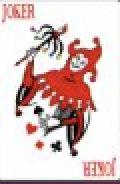
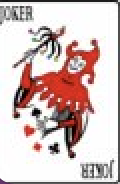
commit

diff --git a/src/main/java/application/view/PlayView.java b/src/main/java/application/view/PlayView.java
@@ -55,11 +55,11 @@ public class PlayView extends JPanel{
 		this.add(leaveButton, BorderLayout.NORTH);
 		
 		//bottom
-		PlayerCards bottom = new PlayerCards();
-		GridLayout gridLayout = new GridLayout(1,13,10,10);
-		bottom.setLayout(gridLayout);
-		bottom.setBackground(new Color(185, 251, 192));
-		this.add(bottom, BorderLayout.SOUTH);
+//		PlayerCards bottom = new PlayerCards();
+//		GridLayout gridLayout = new GridLayout(1,13,10,10);
+//		bottom.setLayout(gridLayout);
+//		bottom.setBackground(new Color(185, 251, 192));
+		this.add(PlayerCards.getInstance(), BorderLayout.SOUTH);
 		
 		
 		ImageIcon image1 = new ImageIcon();
@@ -91,8 +91,8 @@ public class PlayView extends JPanel{
 					// TODO Auto-generated catch block
 					e.printStackTrace();
 				}
-				CardPanel p1 = new CardPanel(image, bottom);
-				bottom.add(p1);
+				CardPanel p1 = new CardPanel(image, PlayerCards.getInstance());
+				PlayerCards.getInstance().add(p1);
 		}
 		 
 		
@@ -110,7 +110,7 @@ public class PlayView extends JPanel{
 		
 		//TEST
 		for(int i = 0; i < 20; ++i) {
-			GameSpot gs = new GameSpot(bottom);
+			GameSpot gs = new GameSpot(PlayerCards.getInstance());
 //			CardPanel c1 =new CardPanel(image1);
 //			CardPanel c2 = new CardPanel(image1);
 //			CardPanel c3 =new CardPanel(image1);
@@ -145,12 +145,24 @@ public class PlayView extends JPanel{
 		}
 		//END TEST
 		
-		JPanel deckAndWell = new JPanel();
-		deckAndWell.add(new CardPanel(image1));
-		deckAndWell.add(new CardPanel(image1));
-		deckAndWell.setMaximumSize(new Dimension(110,120));
-		deckAndWell.setBackground(new Color(185, 251, 192));
-		deckAndWell.setLayout(new FlowLayout());
+//		JPanel deckAndWell = new JPanel();
+//		deckAndWell.add(new CardPanel(image1));
+//		deckAndWell.add(new CardPanel(image1));
+//				
+//		deckAndWell.setMaximumSize(new Dimension(110,120));
+//		deckAndWell.setBackground(new Color(185, 251, 192));
+//		deckAndWell.setLayout(new FlowLayout());
+		ImageIcon backImage = new ImageIcon();
+		ImageIcon firstImage = new ImageIcon();
+		try {
+			backImage.setImage(ImageIO.read(getClass().getResource("../resources/" + '9' + '9' + ".png")));
+			firstImage.setImage(ImageIO.read(getClass().getResource("../resources/" + '5' + '1' + ".png")));
+		} catch (IOException e) {
+			// TODO Auto-generated catch block
+			e.printStackTrace();
+		}
+		
+		DeckAndWell deckAndWell = new DeckAndWell(backImage, firstImage);
 		
 		center.add(deckAndWell, BorderLayout.NORTH);
 		center.add(gameSpots, BorderLayout.CENTER); 

diff --git a/src/main/java/application/view/DeckPanel.java b/src/main/java/application/view/DeckPanel.java
@@ -1,0 +1,41 @@
+package application.view;
+
+import java.awt.event.MouseEvent;
+import java.io.IOException;
+
+import javax.imageio.ImageIO;
+import javax.swing.ImageIcon;
+
+import application.model.Card;
+import application.model.Game;
+
+public class DeckPanel extends CardPanel{
+
+	private static final long serialVersionUID = 3154124699346921639L;
+	public DeckPanel(ImageIcon image) {
+		super(image);
+		// TODO Auto-generated constructor stub
+	}
+	
+	public DeckPanel(ImageIcon image, PlayerCards playerCards) {
+		super(image, playerCards);
+		// TODO Auto-generated constructor stub
+	}
+
+	@Override
+	public void mouseClicked(MouseEvent e) {
+		Card c = Game.getInstance().getDeck().get(0);
+		Game.getInstance().getDeck().remove(0);
+		System.out.print(c.getSuite() + " " + c.getNumber() + "\n");
+		ImageIcon image = new ImageIcon();
+		try {
+			image.setImage(ImageIO.read(getClass().getResource("../resources/" + c.getSuite() + c.getNumber() + ".png")));
+		} catch (IOException e1) {
+			// TODO Auto-generated catch block
+			e1.printStackTrace();
+		}
+		CardPanel card = new CardPanel(image, PlayerCards.getInstance());
+		PlayerCards.getInstance().add(card);
+		PlayerCards.getInstance().revalidate();
+	}
+}

diff --git a/src/main/java/application/view/PlayerCards.java b/src/main/java/application/view/PlayerCards.java
@@ -1,5 +1,7 @@
 package application.view;
 
+import java.awt.Color;
+import java.awt.GridLayout;
 import java.util.ArrayList;
 
 import javax.swing.JPanel;
@@ -10,7 +12,19 @@ public class PlayerCards extends JPanel{
 	
 	public ArrayList<CardPanel> selectedCards = new ArrayList<CardPanel>();
 	
-	public PlayerCards() {}
+	private static PlayerCards instance = null;
+	
+	private PlayerCards() {
+		GridLayout gridLayout = new GridLayout(1,13,10,10);
+		this.setLayout(gridLayout);
+		this.setBackground(new Color(185, 251, 192));
+	}
+	
+	public static PlayerCards getInstance() {
+		if(instance == null)
+			instance = new PlayerCards();
+		return instance;
+	}
 	
 	
 	public void addSelectedCard(CardPanel p) {
@@ -29,10 +43,10 @@ public class PlayerCards extends JPanel{
 	}
 	
 	public void removeCard(CardPanel p) {
-		for (CardPanel cardPanel : selectedCards) {
-			System.out.println("Card");
-		}
-		System.out.println("\n");
+//		for (CardPanel cardPanel : selectedCards) {
+//			System.out.println("Card");
+//		}
+//		System.out.println("\n");
 		this.remove(p);
 		selectedCards.remove(p);
 	}

diff --git a/src/main/java/application/view/WellPanel.java b/src/main/java/application/view/WellPanel.java
@@ -1,0 +1,40 @@
+package application.view;
+
+import java.awt.event.MouseEvent;
+
+import javax.swing.ImageIcon;
+
+import application.model.Card;
+import application.model.Game;
+
+public class WellPanel extends CardPanel{
+
+	private static final long serialVersionUID = 2786141514094370526L;
+
+	public WellPanel(ImageIcon image) {
+		super(image);
+		// TODO Auto-generated constructor stub
+	}
+	
+	public WellPanel(ImageIcon image, PlayerCards playCards) {
+		super(image, playCards);
+		// TODO Auto-generated constructor stub
+	}
+
+	@Override
+	public void mouseClicked(MouseEvent e) {
+		if(PlayerCards.getInstance().selectedCards.size() == 1) {
+			//Game.getInstance().getWell().add(new Card());
+			CardPanel c = PlayerCards.getInstance().selectedCards.remove(0);
+			PlayerCards.getInstance().remove(c);
+			
+			super.setImage(c.getImage());
+			
+			PlayerCards.getInstance().revalidate();
+		}
+		else if(PlayerCards.getInstance().selectedCards.size() == 0) {
+			
+		}
+	}
+	
+}

diff --git a/src/main/java/application/view/CardPanel.java b/src/main/java/application/view/CardPanel.java
@@ -32,7 +32,7 @@ public class CardPanel extends JPanel implements MouseInputListener{
 	
 	public CardPanel(ImageIcon image, PlayerCards owner) {
 		setBackground(Color.WHITE);
-		this.setLayout(new BorderLayout());
+		//this.setLayout(new BorderLayout());
 		this.image = image;
 		this.label = new JLabel(this.image);
 		this.owner = owner;
@@ -41,6 +41,20 @@ public class CardPanel extends JPanel implements MouseInputListener{
 		this.addMouseListener(this);
 	}
 	
+	public void setImage(ImageIcon image) {
+//		this.remove(this.label);
+//		this.label = new JLabel(image);
+//		this.add(label);
+		
+		this.label.setIcon(image);
+//		this.repaint();
+//		this.revalidate();
+		System.out.println("DENTRO");
+	}
+	
+	public ImageIcon getImage() {
+		return this.image;
+	}
 	
 
 

diff --git a/src/main/java/application/view/DeckAndWell.java b/src/main/java/application/view/DeckAndWell.java
@@ -1,0 +1,26 @@
+package application.view;
+
+
+import java.awt.Color;
+import java.awt.Dimension;
+import java.awt.FlowLayout;
+
+import javax.swing.ImageIcon;
+import javax.swing.JPanel;
+
+public class DeckAndWell extends JPanel{
+	private static final long serialVersionUID = -1504887529992253680L;
+	
+	private CardPanel[] panels = new CardPanel[2];
+	
+	public DeckAndWell(ImageIcon backImage, ImageIcon frontImage) {
+		panels[0] = new WellPanel(frontImage);
+		panels[1] = new DeckPanel(backImage);
+		this.setLayout(new FlowLayout());
+		this.add(panels[0]);
+		this.add(panels[1]);
+		//this.setMaximumSize(new Dimension(90,90));
+		this.setBackground(new Color(185, 251, 192));
+	}
+
+}
